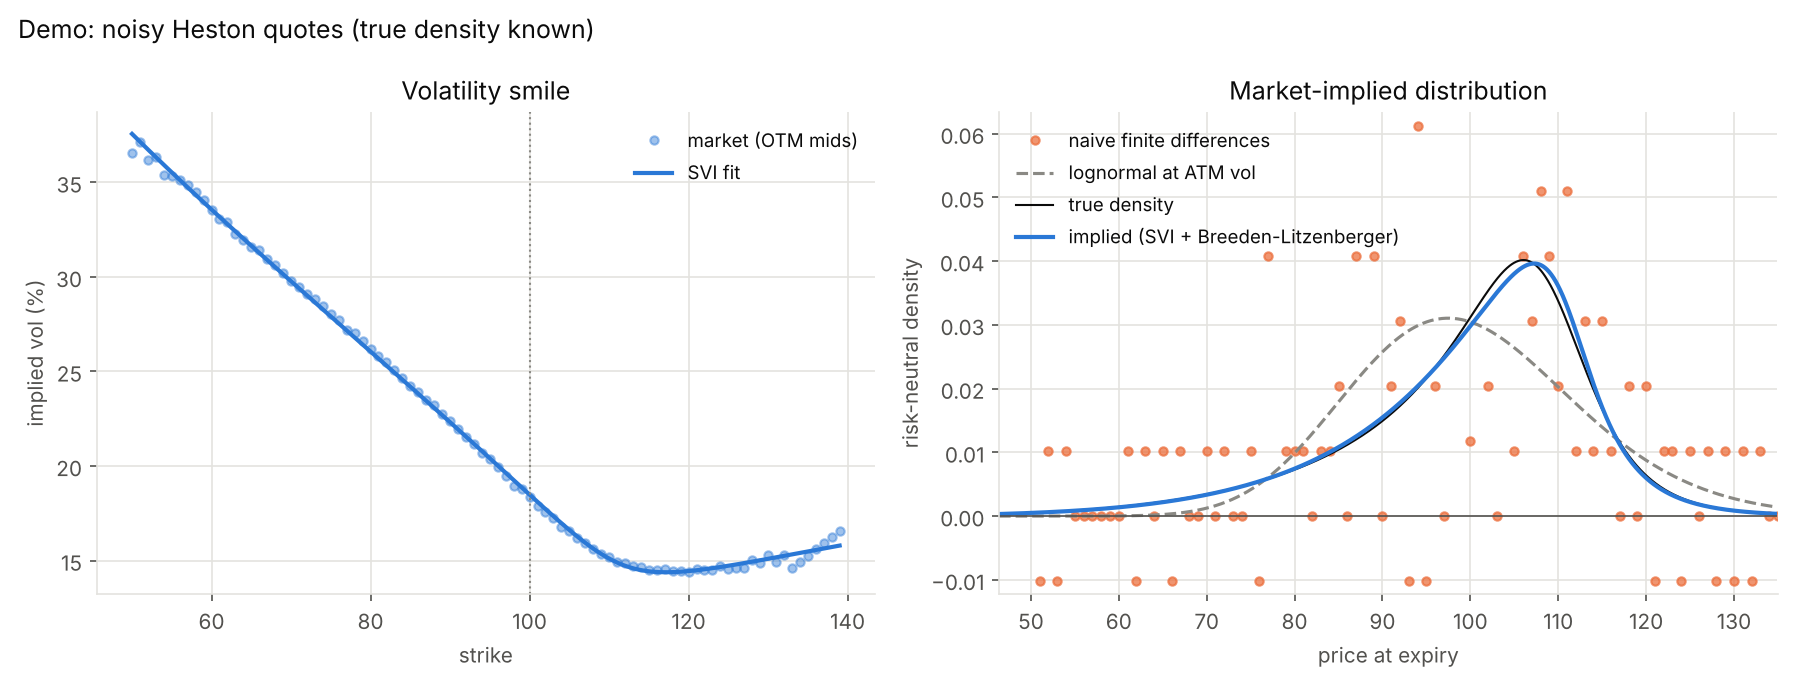
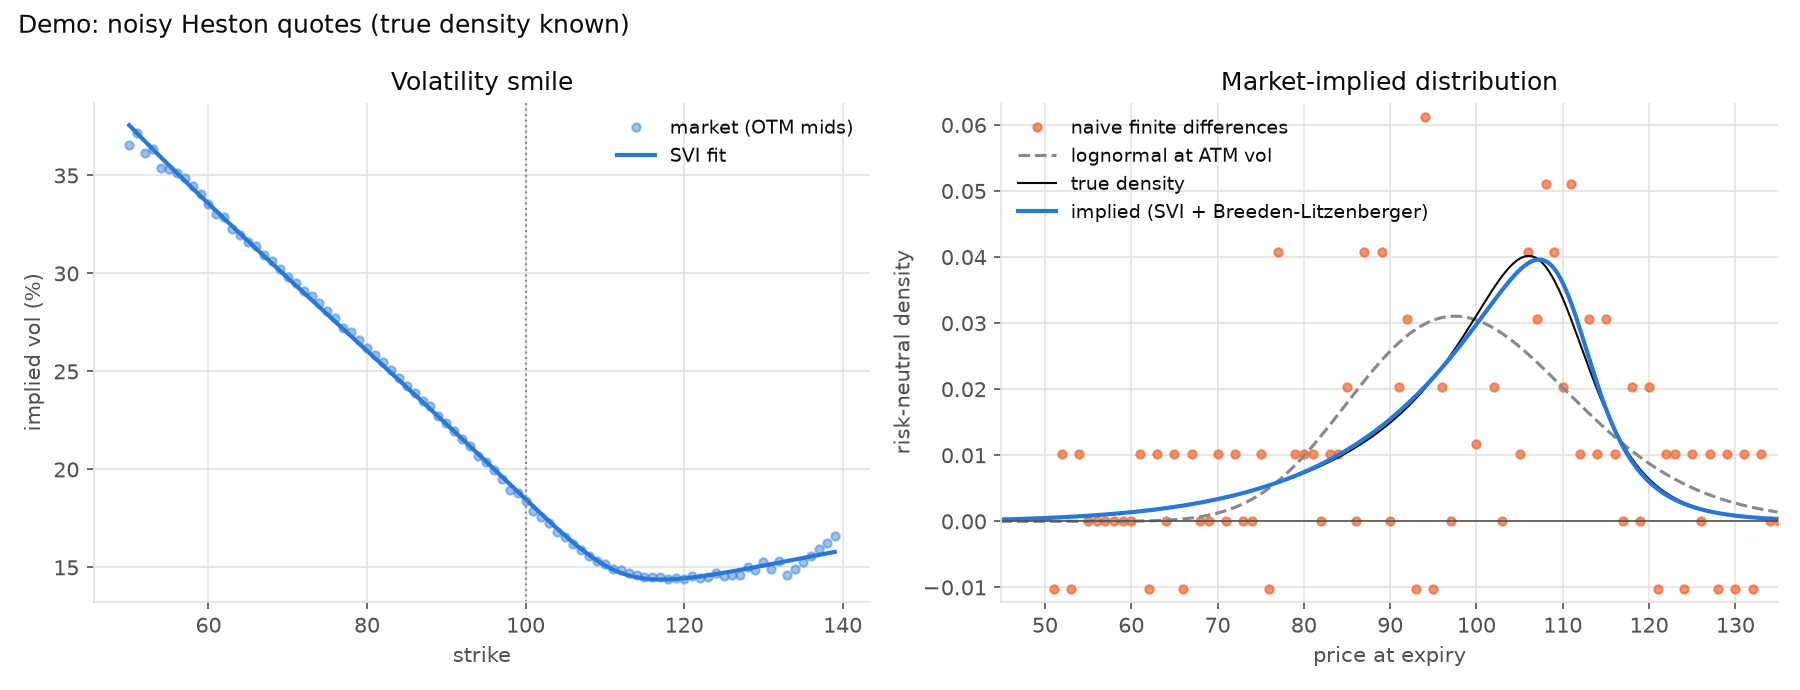
Live SPX: drop stale Yahoo quotes, widen density grid; add live result
Phase 2 on live ^SPX (Yahoo, 2026-10-14, 4 expiries 1-6 months).

- load_chain drops quotes not traded in 30 days. Yahoo keeps the last
  bid/ask of contracts that stopped trading; those were up to 1549 points
  off put-call parity and gave implied rates of 10-38%. Now 4.6-4.9%
  at 2-6 months vs T-bills 4.05-4.35%.
- Density grid +-8 -> +-16 ATM sd, no-arbitrage penalty on 1.5x that range.
  +-8 cut 0.56% of left-tail mass off a 6-month expiry (mean 40 bp above
  forward). Now mass 0.9990-0.9994, mean within 9 bp live; 2019 data
  mass 0.9999-1.0000, mean within 0.6 bp.
- Two regression tests (fake yfinance chain with stale quotes; live 6-month
  SVI fit). Both fail on the old code. 11 ok.
- README: Live SPX result section and spx_live.png; refreshed numbers and
  charts that the grid change moved; fixed naive-negative figure (29%).

diff --git a/tests/test_rnd.py b/tests/test_rnd.py
@@ -1,13 +1,14 @@
 """Every test checks against a known answer. Run: python -m pytest  (or python tests/test_rnd.py)"""
 import os
 import sys
+import types
 
 import numpy as np
 import pandas as pd
 
 sys.path.insert(0, os.path.dirname(os.path.dirname(os.path.abspath(__file__))))
-from rnd.core import analyze, black, implied_vol, lognormal_pdf, parity_forward
-from rnd.data import HESTON, heston_call, heston_cf, heston_pdf, load_cboe_csv, synthetic_chain
+from rnd.core import analyze, black, density, implied_vol, lognormal_pdf, moments, parity_forward
+from rnd.data import HESTON, heston_call, heston_cf, heston_pdf, load_cboe_csv, load_chain, synthetic_chain
 
 
 def tv(K, q, truth):
@@ -117,6 +118,40 @@ def test_real_spx_quotes_all_expiries():
 def test_naive_breeden_litzenberger_fails_on_noise():
     chain, T, _ = synthetic_chain()
     assert (analyze(chain, T)["naive"][1] < 0).mean() > 0.10
+
+
+def test_live_loader_drops_stale_quotes():
+    """Yahoo keeps showing the last bid/ask of contracts that stopped trading. On live SPX (2026-10-14)
+    such quotes pushed the parity rate to 38%. Feed load_chain a fake yfinance chain with the same flaw."""
+    now = pd.Timestamp.now(tz="America/New_York")
+    expiry = (now + pd.Timedelta(days=182)).strftime("%Y-%m-%d")
+    T = (pd.Timestamp(expiry + " 16:00", tz="America/New_York") - now).total_seconds() / (365.25 * 86400)
+    chain, _, DF = synthetic_chain(T=T, r=0.04)
+    stale = chain["strike"] < 80                                       # deep in-the-money calls, two months old,
+    call = chain["call_mid"] + np.where(stale, DF * 10, 0)            # quoted when the forward was 110
+
+    def side(mid, old):
+        return pd.DataFrame({"strike": chain["strike"], "bid": mid - 0.005, "ask": mid + 0.005,
+                             "lastTradeDate": now - pd.to_timedelta(np.where(old, 60, 0), unit="D")})
+
+    calls, puts = side(call, stale), side(chain["put_mid"], False)
+    yahoo = types.SimpleNamespace(options=(expiry,), option_chain=lambda e: types.SimpleNamespace(calls=calls, puts=puts))
+    real = sys.modules.get("yfinance")
+    sys.modules["yfinance"] = types.SimpleNamespace(Ticker=lambda ticker: yahoo)
+    try:
+        live, T_live, _ = load_chain("^SPX", expiry)
+    finally:
+        sys.modules["yfinance"] = real
+    r = analyze(live, T_live)
+    assert abs(-np.log(r["DF"]) / T_live - 0.04) < 0.003 and abs(r["F"] / 100 - 1) < 1e-3
+
+
+def test_density_grid_holds_fat_left_tail():
+    """SVI fitted to live SPX (2026-10-14), 6-month expiry. A +-8 sd grid lost 0.56% of the probability
+    off its left edge, putting the mean 40 bp above the forward. All of it must be on the grid."""
+    F, T = 7906.26, 0.50434
+    s = moments(*density(F, T, (-0.074913, 0.163516, -0.302061, 0.015965, 0.522605)), F)
+    assert abs(s["mass"] - 1) < 0.002 and abs(s["mean"] / F - 1) < 0.0015
 
 
 if __name__ == "__main__":

diff --git a/rnd/core.py b/rnd/core.py
@@ -7,6 +7,10 @@ import numpy as np
 from scipy.optimize import least_squares
 from scipy.special import ndtr
 
+# Density grid half-width in ATM std devs. The no-arbitrage penalty covers 1.5x this range, so the
+# density cannot go negative anywhere on the grid.
+WIDTH = 16.0
+
 
 def black(F, K, T, vol, call=True):
     """Undiscounted Black-76 price (multiply by the discount factor for the market price)."""
@@ -68,7 +72,7 @@ def fit_svi(k, iv, T):
     lb = [-w.max(), 1e-6, -0.999, k.min() - 0.5, 1e-4]
     ub = [w.max(), 1.0, 0.999, k.max() + 0.5, 2.0]
     sd0 = np.sqrt(np.interp(0.0, k, w))  # rough ATM total std dev
-    k_pen = np.linspace(min(k.min(), -12 * sd0), max(k.max(), 12 * sd0), 300)
+    k_pen = np.linspace(min(k.min(), -1.5 * WIDTH * sd0), max(k.max(), 1.5 * WIDTH * sd0), 300)
 
     def to_raw(x):
         a, u, rho, m, s = x
@@ -92,8 +96,10 @@ def fit_svi(k, iv, T):
     return to_raw(best.x)
 
 
-def density(F, T, params, n=4001, width=8.0):
-    """Breeden-Litzenberger on the smooth SVI call curve. Returns strikes K and density q(K)."""
+def density(F, T, params, n=4001, width=WIDTH):
+    """Breeden-Litzenberger on the smooth SVI call curve. Returns strikes K and density q(K).
+    The grid spans +-width ATM std devs: SPX's left tail is fat, and +-8 left 0.56% of the mass
+    of a live 6-month expiry below the grid (strikes were quoted far below its edge)."""
     sd = np.sqrt(svi(0.0, *params))  # ATM total std dev
     K = np.linspace(F * np.exp(-width * sd), F * np.exp(width * sd), n)
     C = black(F, K, T, np.sqrt(svi(np.log(K / F), *params) / T))

diff --git a/rnd/data.py b/rnd/data.py
@@ -31,6 +31,10 @@ def load_chain(ticker="^SPX", expiry=None, min_days=30):
     if c_ok.mean() < 0.5 or p_ok.mean() < 0.5:
         raise RuntimeError("Most bid/ask quotes are empty (US market closed?). Run during "
                            "US hours, 9:30-16:00 New York time, for real two-sided quotes.")
+    # Yahoo keeps showing the last bid/ask of contracts that stopped trading. On live SPX, quotes
+    # last traded over a month ago were up to 1549 points off parity and pushed the implied rate to 38%.
+    for d, col in ((c, "call_mid"), (p, "put_mid")):
+        d.loc[now - pd.to_datetime(d["lastTradeDate"], utc=True) > pd.Timedelta(days=30), col] = np.nan
     # SPX monthly and SPXW weekly contracts can share an expiry date and strike: one row per strike.
     c = c.groupby("strike", as_index=False)["call_mid"].mean()
     p = p.groupby("strike", as_index=False)["put_mid"].mean()

diff --git a/README.md b/README.md
@@ -4,9 +4,9 @@
 
 ![SPX, real quotes](spx_2019.png)
 
-*Real Cboe SPX quotes. The market puts 4.7% on a 2-standard-deviation crash within a month; the Black-Scholes bell curve says 2.4%.*
+*Real Cboe SPX quotes. The market puts 4.8% on a 2-standard-deviation crash within a month; the Black-Scholes bell curve says 2.4%.*
 
-Option prices encode a probability distribution. Breeden & Litzenberger (1978) showed it is the second derivative of the call price with respect to strike. Taking that derivative on raw quotes fails: on the real quotes above, naive finite differences (orange) go **negative at 27% of strikes**. This project solves that, checks it against a model where the true answer is known exactly, and checks it on every expiry of a real SPX option chain.
+Option prices encode a probability distribution. Breeden & Litzenberger (1978) showed it is the second derivative of the call price with respect to strike. Taking that derivative on raw quotes fails: on the real quotes above, naive finite differences (orange) go **negative at 29% of strikes**. This project solves that, checks it against a model where the true answer is known exactly, and checks it on every expiry of a real SPX option chain.
 
 ## Method
 
@@ -21,11 +21,13 @@ The SVI fit has two no-arbitrage guards. Real data needed both: without them, ex
 - **Wing slopes ≤ 2** (Roger Lee's moment formula), by reparametrising `b`.
 - **Durrleman's condition g(k) ≥ 0** (no butterfly arbitrage, equivalent to no negative density), penalised over the whole density grid, including the extrapolated wings.
 
+The density grid spans ±16 ATM standard deviations. SPX's left tail is fat: at ±8, a live 6-month expiry lost 0.56% of its probability off the left edge of the grid.
+
 All of it is in [`rnd/core.py`](rnd/core.py), about 170 lines.
 
 ## Validation
 
-`python tests/test_rnd.py` (or `python -m pytest`), 9 tests, about 20 seconds.
+`python tests/test_rnd.py` (or `python -m pytest`), 11 tests, about 20 seconds of computation.
 
 **Known truth.** Noisy, tick-rounded quotes generated from a Heston stochastic-volatility model, whose density is exact by Fourier inversion.
 
@@ -39,19 +41,19 @@ All of it is in [`rnd/core.py`](rnd/core.py), about 170 lines.
 | Flat vol → recovers lognormal | distance < 0.5% |
 | Heston density from noisy quotes, 5 random seeds | total-variation distance ≈ 2%, no negative probabilities |
 | Same, with stale wing quotes off by 50% | ≈ 1.8% |
-| 2-σ crash probability | 6.65% recovered vs 6.75% true; lognormal says 2.65% |
+| 2-σ crash probability | 6.69% recovered vs 6.75% true; lognormal says 2.65% |
 
 **Real market.** Every SPXW expiry from 1 week to 1 year (27 expiries) in a Cboe 15:45 snapshot from 2019-06-26. There's no true density for real data, so the test checks what must hold:
 
 | Check | Result on all 27 expiries |
 |---|---|
-| Probability mass | 0.998–1.000 |
+| Probability mass | 0.9999–1.0000 |
 | Negative probability mass | < 5e-7 |
-| Mean of density vs forward (martingale) | within 21 bp |
+| Mean of density vs forward (martingale) | within 0.6 bp |
 | Implied interest rate from parity | 2.1–2.8%; Fed funds target was 2.25–2.50% |
-| SVI fit error | 0.14–0.83 vol pts |
+| SVI fit error | 0.14–0.86 vol pts |
 | ATM total variance rises with maturity (calendar no-arbitrage) | yes |
-| Skew | negative on every expiry (−1.0 to −2.0); 2-σ crash probability 4.2–7.5% vs lognormal 2.3–2.7% |
+| Skew | negative on every expiry (−1.4 to −2.6); 2-σ crash probability 4.2–7.6% vs lognormal 2.3–2.7% |
 
 The data is from the open-source [volkit](https://github.com/sitmo/volkit) project (BSD-3); see [`tests/data`](tests/data).
 
@@ -69,16 +71,34 @@ Live data comes from Yahoo Finance (free, via yfinance). Run it during US market
 
 Output: forward, ATM vol, skew, excess kurtosis, the market's probability of a 2-standard-deviation drop versus the lognormal (Black-Scholes) answer, and the chart.
 
+## Live SPX result
+
+Yahoo Finance ^SPX quotes, 14 October 2026, about 10:59 New York time (Yahoo delays quotes ~15 minutes; SPX was 7,754). `python -m rnd ^SPX --out spx_live.png`:
+
+![SPX live](spx_live.png)
+
+The market puts **4.7% on a 2-standard-deviation drop** (below 7,220) by 16 November; the lognormal bell curve says 2.4%.
+
+| Expiry | Days | Forward | ATM vol | Mass | Mean vs forward | SVI fit error | Implied rate | T-bill (13 Oct) | 2-σ crash: market / lognormal |
+|---|---|---|---|---|---|---|---|---|---|
+| 2026-11-16 | 33 | 7,778.8 | 12.4% | 0.9994 | 3 bp | 0.45 vol pts | 3.6% (12 strikes, ±2) | 4-wk 3.98% | 4.7% / 2.4% |
+| 2026-12-18 | 65 | 7,801.9 | 13.4% | 0.9994 | 4 bp | 0.77 | 4.6% | 8-wk 4.05% | 5.0% / 2.4% |
+| 2027-01-15 | 93 | 7,831.7 | 13.7% | 0.9991 | 6 bp | 0.77 | 4.8% | 13-wk 4.19% | 5.1% / 2.5% |
+| 2027-04-16 | 184 | 7,908.6 | 15.0% | 0.9990 | 9 bp | 0.32 | 4.9% | 26-wk 4.35% | 5.5% / 2.6% |
+
+T-bill: U.S. Treasury daily bill rates, coupon equivalent. Negative probability mass is below 3e-6 on every expiry, and ATM total variance rises with maturity (0.00139, 0.00319, 0.00477, 0.01134), so there is no calendar arbitrage. The implied rate comes from put-call parity alone and sits 0.5–0.65 points above T-bills at 2–6 months (continuously compounded vs coupon-equivalent; converting shifts it under 0.05). This is consistent with SPX box-spread rates usually running above Treasury yields, but only one day was measured here.
+
 ## Limits
 
 - **Risk-neutral, not real-world.** These probabilities include the price investors pay for crash insurance, so they overstate how often crashes actually happen.
 - **SVI has one hump.** It can't represent a bimodal distribution, such as a single stock into earnings or a binary event.
 - **Far wings at the minimum tick.** Options priced at $0.05–0.20 carry implied vol inflated by the tick floor. The arbitrage-free fit sits up to ~3 vol pts below them (right edge of the smile above); the density there is extrapolation.
 - **Use ^SPX, not SPY.** SPX options are European; SPY options are American, which slightly biases parity and prices.
-- **Yahoo data is delayed** and occasionally has stale quotes; the robust fit tolerates a few.
+- **Yahoo data is delayed**, and Yahoo keeps showing the last bid/ask of contracts that stopped trading. On live SPX those were up to 1,549 points off put-call parity and pushed the implied rate to 38%, so the loader drops quotes not traded in 30 days.
+- **Skew and kurtosis lean on the extrapolated tail.** They are moments of the whole density, including the far left wing beyond the last quote, so read them as model-dependent. The crash probability and the smile are better pinned by quotes.
+- **Short expiries can have few strikes on Yahoo.** The 1-month chain below had only 12 strikes with both a call and a put, so its implied rate is noisy (about ±2 points).
 
 ## Next steps
 
-1. **Live:** run on today's ^SPX chain and add the chart here.
-2. **Fear index:** store the 2-σ crash probability daily and compare it with VIX.
-3. **Implied vs realized:** compare the density's vol with realized vol. `gs_quant.timeseries.volatility` does this offline; the rest of gs-quant's market data needs Goldman Sachs institutional credentials.
+1. **Fear index:** store the 2-σ crash probability daily and compare it with VIX.
+2. **Implied vs realized:** compare the density's vol with realized vol. `gs_quant.timeseries.volatility` does this offline; the rest of gs-quant's market data needs Goldman Sachs institutional credentials.
